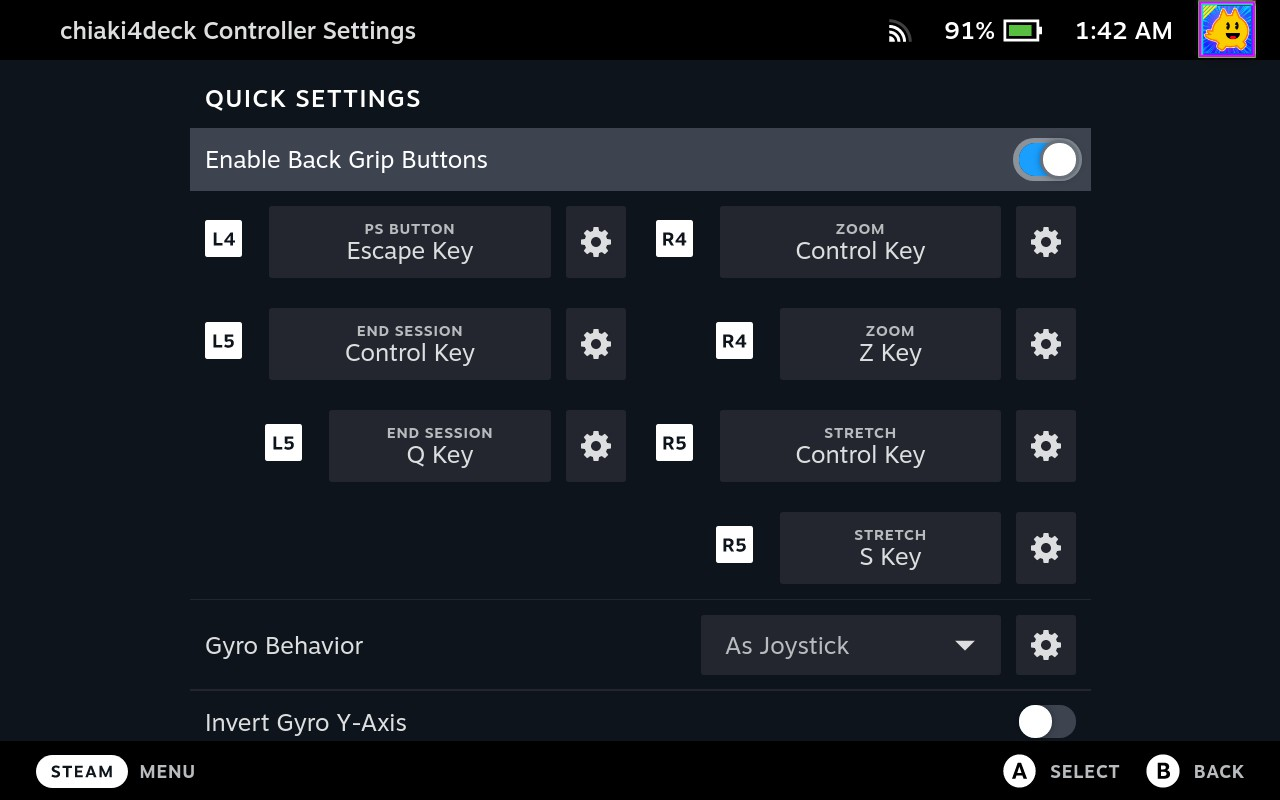
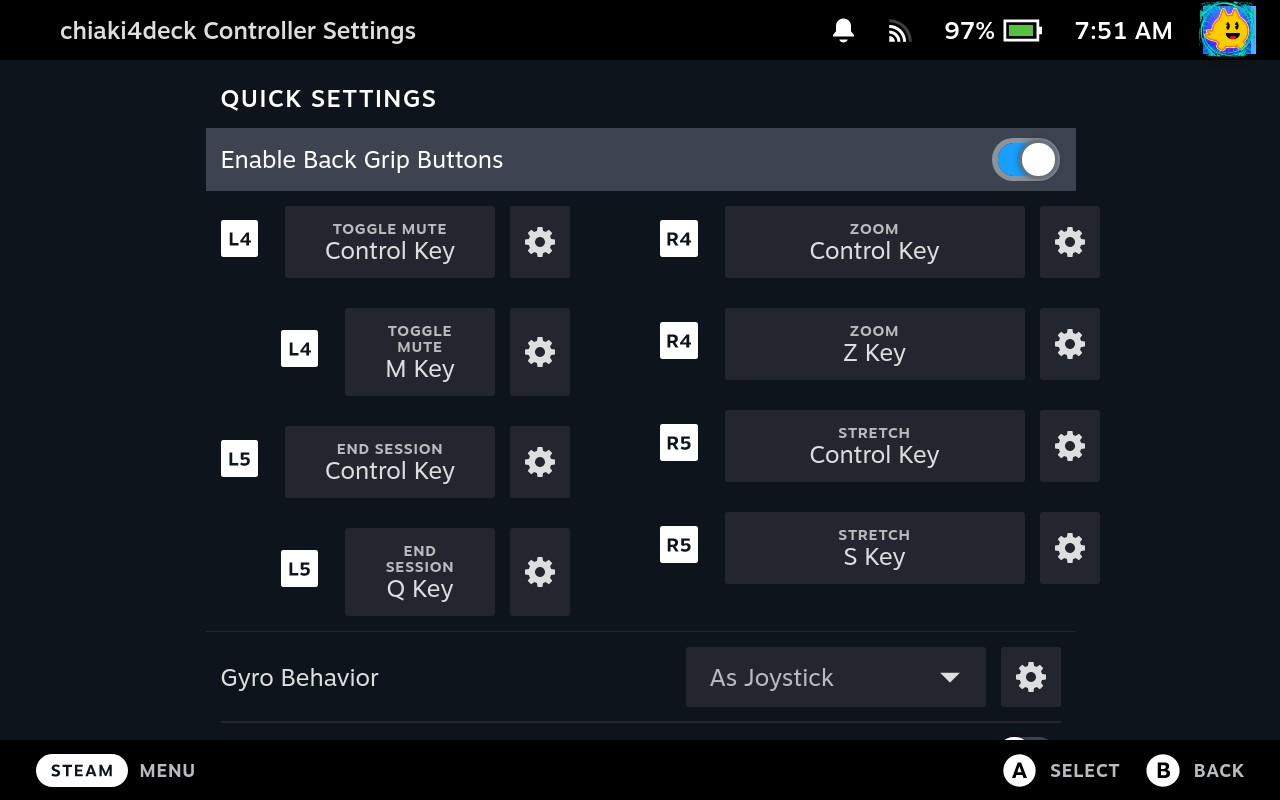
Change default layout to chiaki4deck+ mic
Notable Changes:
- Update docs to reflect new controller layout
- Update docs to point out lack of bluetooth mic support on Steam Deck

diff --git a/docs/setup/controlling.md b/docs/setup/controlling.md
@@ -28,7 +28,7 @@ Get all of the shortcuts mapped to Steam Deck controls. Start by going to the `c
 
         1. Click the current layout box (it says: *Browse Community Layouts for games without official controller support* underneath it).
 
-        2. Move to the `COMMUNITY LAYOUTS` tab and select `chiaki4deck+` by `gmoney23`
+        2. Move to the `COMMUNITY LAYOUTS` tab and select `chiaki4deck+ mic` by `gmoney23`
 
             ![Default controller](images/StreetpeaChiaki4deckLayout.png)
 
@@ -70,7 +70,7 @@ The easiest way to configure all of the necessary shortcuts for `chiaki4deck` is
 
 1. Click the current layout box (it says: *Browse Community Layouts for games without official controller support* underneath it).
 
-2. Move to the `COMMUNITY LAYOUTS` tab and select `chiaki4deck+` by `gmoney23` (the original `chiaki4deck` layout was from before touchpad mapping to the trackpad and touchscreen was added)
+2. Move to the `COMMUNITY LAYOUTS` tab and select `chiaki4deck+ mic` by `gmoney23` (the `chiaki4deck+` layout was from before the toggle mic mute button mapping to the L4 back button was added and the original `chiaki4deck` layout was from before touchpad mapping to the trackpad and touchscreen was added)
 
     ![Default controller](images/StreetpeaChiaki4deckLayout.png)
 
@@ -106,7 +106,7 @@ The touchpad gestures are mapped using a mouse region with left mouse click on t
 
 ![Steam Deck Back Button Mapping](images/BackButtons.png)
 
-I have mapped `L4` to the PlayStation button, L5 to end session (++ctrl+q++), R4 to zoom (++ctrl+z++), and R5 to stretch (++ctrl+s++).
+I have mapped `L4` to toggle mic mute, `L5` to end session (++ctrl+q++), `R4` to zoom (++ctrl+z++), and `R5` to stretch (++ctrl+s++).
 
 ### Default `chiaki4deck` Layout Gyro Mapping
 
@@ -134,7 +134,7 @@ You can create your own controller profile by mapping the relevant buttons. The 
 | `Share Button` | ++f++ | The Share button on the PS5 controller used for taking screenshots, videos, etc. stored on your PS5 and uploaded to the PlayStation app on your phone if you so choose. |
 | `Touchpad Click` | ++t++, mouse ++right-button++, tapping border (top, bottom, left or right 5%) of the touchscreen | These actions will all result in a touchpad click. For games that separate the touchpad into multiple regions, they work in conjunction with either the current mouse location (location of finger on Steam Deck trackpad) or current finger location (which edge of the touchscreen you tapped) to delineate which region you are using (most games just have one region for touchpad click though). |
 | `Touchpad Motion` | `Touchscreen touch`, mouse ++left-button++ ++plus++ Mouse Movement (i.e., `drag action` / mouse region touch). | Maps to the PlayStation touchpad (since that's what PlayStation games / the remote streaming console expect). This means that the "cursor" (if one is defined for the game like in *Chicory: A Colorful Tale*) moves according to your gestures but does not snap/follow your fingers' locations (i.e., it behaves like a touchpad as it should).|
-| `Toggle Mute` | ++ctrl+m++ | The toggle microphone mute on and off button on the PlayStation controller. |
+| `Toggle Mic Mute` | ++ctrl+m++ | The toggle microphone mute on and off button on the PlayStation controller. |
 
 !!! Tip "Two Button Shortcuts"
 
@@ -144,7 +144,7 @@ You can create your own controller profile by mapping the relevant buttons. The 
 
 #### Using Steam Deck Controller Touchscreen in Your Custom Controller Profile
 
-In order to use the Steam Deck touchscreen as a touchscreen instead of a mouse in Game Mode, you need to enable `Touchscreen Native Support` for it in controller options (this is done for you in the default `chiaki4deck` layout `chiaki4deck+`). For your custom controller profile, do the following:
+In order to use the Steam Deck touchscreen as a touchscreen instead of a mouse in Game Mode, you need to enable `Touchscreen Native Support` for it in controller options (this is done for you in the default `chiaki4deck` layout `chiaki4deck+ mic`). For your custom controller profile, do the following:
 
 1. Edit your controller layout and scroll down to the `Action Sets` tab (on the left menu). 
     
@@ -173,6 +173,7 @@ Gryo directly maps for games that support it (i.e., Concrete genie, Astro's Play
 Additionally, you can use gyro controls for camera options with any game by mapping gyro `As joystick` and adding a condition for when it's used (i.e., `On` with a condition of `right joystick touch`) in the gyro settings for `chiaki4deck`. I have done this in the [default `chiaki4deck` control setting](#default-chiaki4deck-layout-mapping-full-view) and you can do it in your custom control scheme. However, when playing games that have native gyro support (such as Concrete Genie or The Last of Us) you will most likely want to change the gyro mapping from `As joystick` to `As mouse` so that gyro only maps to gyro in the game (i.e., you don't make your camera move when you're trying to shake your flashlight, etc.).
 !!! Warning "Don't turn off gyro entirely, use `As mouse`"
     You need to use `As mouse` instead of just turning off gyro altogether in Steam Input because turning off gyro altogether will pause gyro input and result in native gyro not working. This means games that have gyro in them for actions such as the flashlight in Last of Us or the paintbrush in Concrete Genie won't work properly. Using `As mouse` means only gyro set in the game itself will result in an action (since mouse movement by itself isn't mapped to anything in chiaki4deck) so it has the same effect of turning off gyro for games that don't use it for a required in-game control.
+
 ### Haptics and Adaptive Triggers [Experimental]
 
 PlayStation 5 haptics are mapped for both the DualSense controller (usb connection required) and the Steam Deck controller and adaptive triggers are mapped for the DualSense controller (usb or bluetooth). These need to be explicitly enabled by checking the PS5 features box in the GUI as shown in the picture below:
@@ -184,11 +185,11 @@ Once checked, haptics and adaptive triggers (DualSense only) will work in games 
 
 ## Microphone
 
-Unmute microphone with either ++ctrl+m++ or the mic button on the PlayStation controller. Then use the microphone as normal. You can choose your microphone in the Steam Deck settings as well as choosing between audio inputs in the chiaki4deck menu. 
+Unmute microphone with either ++ctrl+m++ or the mic button on the PlayStation controller. (This is set to `L4` in the default chiaki4deck+ mic controller layout.) Then, use the microphone as normal. You can choose your microphone in the Steam Deck settings as well as choosing between audio inputs in the chiaki4deck menu. 
 
-!!! Note "Bluetooth headsets don't work on Steam Deck by default"
+!!! Note "Bluetooth headset microphones don't work on Steam Deck by default"
 
-    The Steam Deck does not currently support microphones over bluetooth so you will need to either use a hardwired headset or the Steam Deck microphone unless you change your Steam Deck settings to enable bluetooth headset support (it is currently experimental and turned off by default). Thus, it's advised to use either a hardwired headset or the internal microphone.
+    The Steam Deck does not currently support microphones over bluetooth by default so you will need to either use a hardwired headset or the Steam Deck microphone unless you change your Steam Deck settings to enable bluetooth headset support (it is currently experimental and turned off by default due to a noticeable drop in audio quality). Thus, it's advised to use either a hardwired headset or the internal microphone. If you really want to use a bluetooth headset and can live with the drop in audio quality see [How to enable bluetooth headset modes on Steam Deck](https://steamdecki.org/Steam_Deck/Wireless/Bluetooth#Enabling_More_Codecs_and_Enabling_Headsets){target="_blank" rel="noopener"}.
 
 ### Standard Button Mappings (These directly map and don't need to be specifically set)
 

diff --git a/docs/updates/releases.md b/docs/updates/releases.md
@@ -66,6 +66,17 @@ In order to update your already installed `chiaki4deck` to the newest version, e
 Mic support
 
 - Adds mic support to chiaki4deck
+- Noise suppression and echo cancelling for mic configurable in the chiaki4deck menu
+
+!!! Question "Why doesn't my bluetooth headset mic show up as an available microphone on Steam Deck?"
+
+    The Steam Deck does not currently support microphones over bluetooth by default so you will need to either use a hardwired headset or the Steam Deck microphone unless you change your Steam Deck settings to enable bluetooth headset support (it is currently experimental and turned off by default due to a noticeable drop in audio quality). Thus, it's advised to use either a hardwired headset or the internal microphone. If you really want to use a bluetooth headset and can live with the drop in audio quality see [How to enable bluetooth headset modes on Steam Deck](https://steamdecki.org/Steam_Deck/Wireless/Bluetooth#Enabling_More_Codecs_and_Enabling_Headsets){target="_blank" rel="noopener"}.
+
+#### Update Actions for Existing Users
+
+1. [Updating `chiaki4deck`](#updating-chiaki4deck)
+
+2. [Optional] Switch to the new default control layout `chiaki4deck+ mic` which adds toggle mic mute to `L4`. Alternatively, you can manually add toggle mic mute to a button of your choice by mapping ++ctrl+m++ to that button.
 
 ### 1.3.4
 
